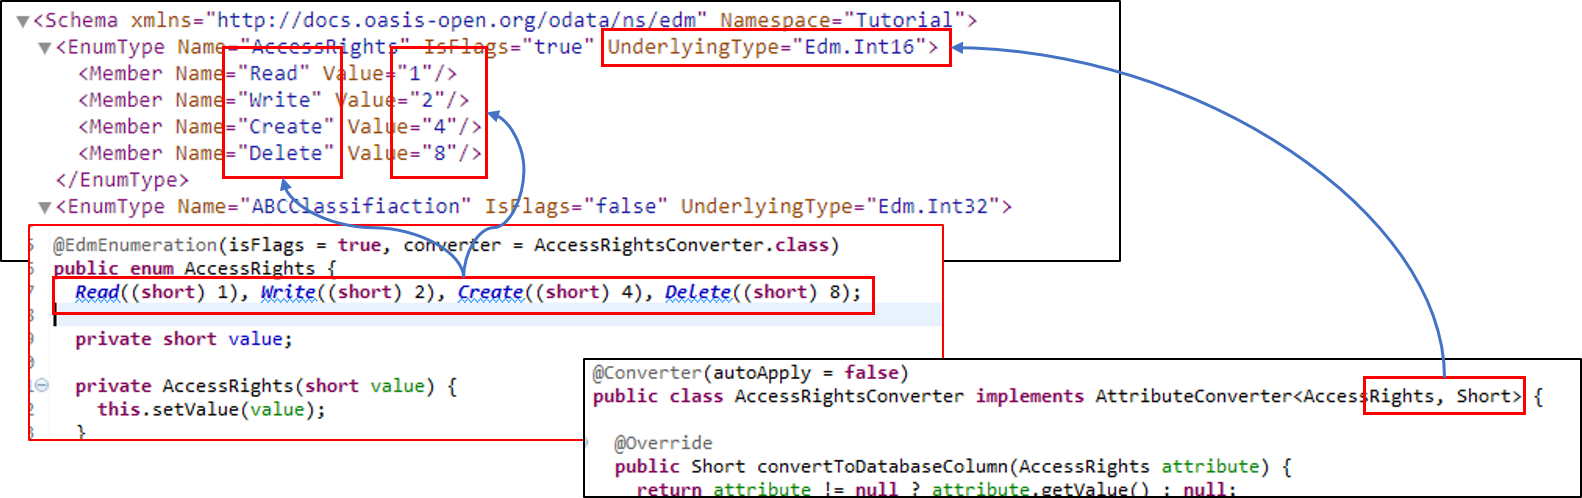
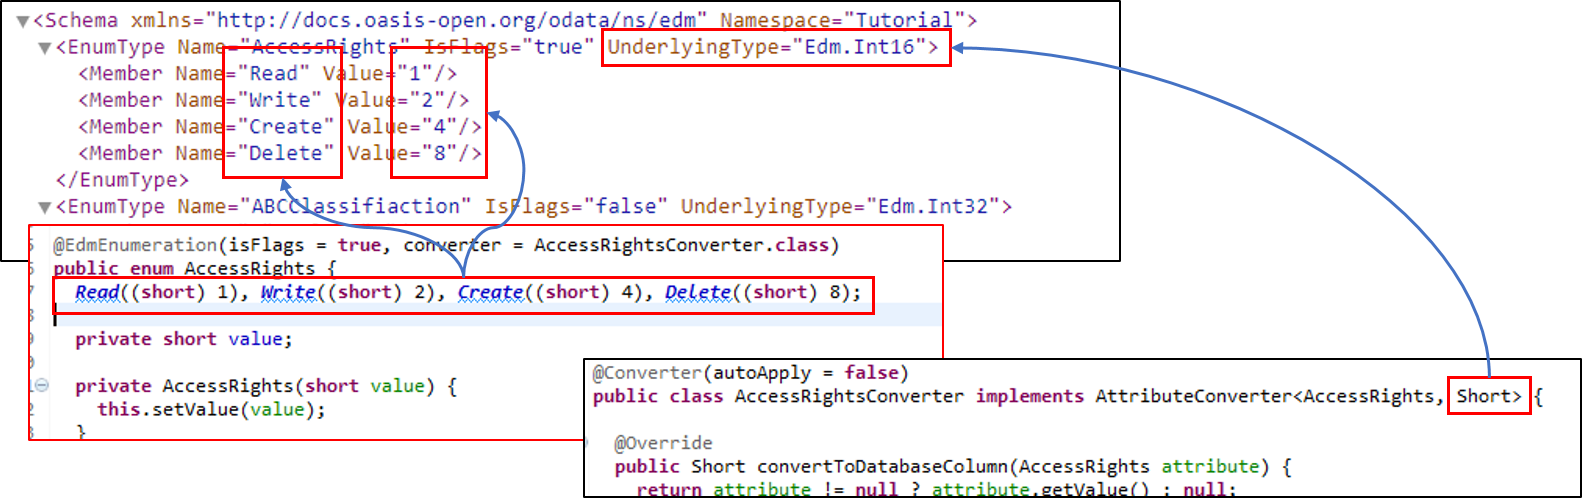
Update tutorial for enumerations

diff --git a/jpa-tutorial/Tutorials/Metadata/1-12-EnumerationTypes.md b/jpa-tutorial/Tutorials/Metadata/1-12-EnumerationTypes.md
@@ -2,11 +2,11 @@
 
 Since version 3 OData allows the specification of enumeration types. Together with Java enumerations it allows on the one hand to provide a client more details about the allowed values of a property and on the other hand to increase type safety in the code.
 
-OData distinguish between two kinds of enumerations, the flags and the non flags. We want have a look at both and see how Java enumerations are used to create OData enumerations.
+OData distinguish between two kinds of enumerations, the once members represent flags and the once the members are not flags. We want have a look at both and see how Java enumerations are used to create OData enumerations.
 
 ## Simple Enumerations
 
-As an example we assume that the Companies shall be classified using an ABC-Classification. For this a enumeration with the corresponding value shall be introduced:
+We want to assume that our Companies shall be classified using an ABC-Classification. For this an enumeration with the corresponding value shall be introduced:
 
 ```Java
 package tutorial.model;
@@ -24,12 +24,13 @@ This enumeration is tagged with a `@EdmEnumeration` so it will be converted into
 handler.getJPAODataContext().setTypePackage("tutorial.operations", "tutorial.model");
 ...
 ```
-With that we can already have a look at the metadata document, http://localhost:8080/Tutorial/Tutorial.svc/$metadata, with the following mapping:
+With that we can already have a look at the metadata document, http://localhost:8080/Tutorial/Tutorial.svc/$metadata, which bases on the following mapping:
+
 ![Mapping of ABCClassifiaction](Metadata/MappingSimpleEnum.png)
 
-As you can see all not given values are filled with default value, which are _false_ for _isFlag_, and _Edm.Int32_, so _Integer_, as _UnderlingType_. The numbering of the members determined via the _ordinal()_ method of the enumeration.
+As you can see all not given values are filled with default value, which are _false_ for _isFlags_, and _Edm.Int32_, so _Integer_, as _UnderlingType_. The numbering of the members determined via the _ordinal()_ method of the enumeration.
 
-Next we want to extend the company class with a property for the _ABC Class_. So we need to add a corresponding attribute to the Company. Even so OData handles enumeration always as numeric values, the _ABC Class_ shall be stored as a String, which is signaled via JPA annotation` @Enumerated(value = EnumType.STRING)`:
+Next we want to extend the company class with a property for the _ABC Class_. So we need to add a corresponding attribute to Company. Even so OData handles enumeration always as numeric values, the _ABC Class_ shall be stored as a String, which is signaled via JPA annotation` @Enumerated(value = EnumType.STRING)`. Please not that in case the property is used in an _orderby_ clause a client expect an order of a number, but would get a order of strings:
 
 ```Java
 package tutorial.model;
@@ -51,10 +52,11 @@ public class Company extends BusinessPartner {
 private ABCClassifiaction abcClass;
 ```
 If we have a look at the metadata again, we will find the following:
-![Mapping of ABCClassifiaction](Metadata/MappingSimpleEnumCompany.png)
-## Flags-Enabled Enumeration
 
-Here we take over the example given in [Schema Definition Language Documentation](http://docs.oasis-open.org/odata/odata/v4.0/errata03/os/complete/part3-csdl/odata-v4.0-errata03-os-part3-csdl-complete.html#_Toc453752565). Our use-case is that we want to be able to get insights into the access rights of a Person. The rights should be  _Read_, _Write_, _Create_ or _Delete_. A person may have multiple right at the same time. Do achieve this we assign a short values to each constant:
+![Mapping of ABCClassifiaction](Metadata/MappingSimpleEnumCompany.png)
+## Flag Based Enumeration
+
+Here we take over the example given in [Schema Definition Language Documentation](http://docs.oasis-open.org/odata/odata/v4.0/errata03/os/complete/part3-csdl/odata-v4.0-errata03-os-part3-csdl-complete.html#_Toc453752565). Our use-case is that we want to be able to get insights into the access rights of a Person. The rights should be  _Read_, _Write_, _Create_ or _Delete_. A person may have multiple right at the same time thats why we need members, which are flags. The flags shall be encoded as short values:
 
 ```Java
 package tutorial.model;
@@ -80,37 +82,50 @@ public enum AccessRights {
   }
 }
 ```
-The EdmEnumeration annotation has been enriched, so the JPA processor knows that this enumeration is a flag and that the value shall not be determined via `ordinal()` but via a converter, which we can later use, when we add a column to the Person. A simple converter can look as follows:
+The EdmEnumeration annotation has been enriched, so the JPA processor knows that the members are flags and that the value shall not be determined via `ordinal()` but via a converter, which we can later use, when we add a column to the Person. The converter converts from respectively into an array of enumeration instances. This is neccesary, as here more than one member may be selected at a time. A simple converter can look as follows:
 ```Java
 package tutorial.model;
 
-import java.util.Arrays;
+import java.util.ArrayList;
+import java.util.List;
 
 import javax.persistence.AttributeConverter;
 import javax.persistence.Converter;
 
 @Converter(autoApply = false)
-public class AccessRightsConverter implements AttributeConverter<AccessRights, Short> {
+public class AccessRightsConverter implements AttributeConverter<AccessRights[], Short> {
 
   @Override
-  public Short convertToDatabaseColumn(AccessRights attribute) {
-    return attribute != null ? attribute.getValue() : null;
+  public Short convertToDatabaseColumn(AccessRights[] attributes) {
+    if (attributes == null)
+      return null;
+    short value = 0;
+    for (AccessRights attribute : attributes)
+      if (attribute != null)
+        value += attribute.getValue();
+    return value;
   }
 
   @Override
-  public AccessRights convertToEntityAttribute(Short dbData) {
-    if (dbData != null) {
-      for (AccessRights e : Arrays.asList(AccessRights.values())) {
-        if (e.getValue() == dbData)
-          return e;
-      }
-    }
-    return null;
+  public AccessRights[] convertToEntityAttribute(Short dbData) {
+    if (dbData == null)
+      return null;
+    List<AccessRights> members = new ArrayList<AccessRights>(4);
+    if ((dbData & AccessRights.Read.getValue()) > 0)
+      members.add(AccessRights.Read);
+    if ((dbData & AccessRights.Create.getValue()) > 0)
+      members.add(AccessRights.Create);
+    if ((dbData & AccessRights.Write.getValue()) > 0)
+      members.add(AccessRights.Write);
+    if ((dbData & AccessRights.Delete.getValue()) > 0)
+      members.add(AccessRights.Delete);
+    return members.toArray(new AccessRights[] {});
   }
 
 }
 ```
-Again we can have a look at the metadata document:
+Again we can have a look at the metadata document and find the following mapping:
+
 ![Mapping of AccessRights](Metadata/MappingFlagsEnum.png)
 
 Now, as the last step, let's create the access rights column:
@@ -131,6 +146,6 @@ public class Person extends BusinessPartner {
 ...
 @Convert(converter = AccessRightsConverter.class)
 @Column(name = "\"AccessRights\"")
-private AccessRights accessRights;
+private AccessRights[] accessRights;
 ...
 ```

diff --git a/jpa-tutorial/Tutorials/Metadata/1-0-Overview.md b/jpa-tutorial/Tutorials/Metadata/1-0-Overview.md
@@ -1,14 +1,15 @@
 # 1.0: Overview
 The first series of tutorial shall introduce into the options currently provided to create OData metadata from JPA metadata:
 
-[Tutorial 1.1: Create A Simple Entity](1-1-ASimpleEntity.md)  
-[Tutorial 1.2: Use Navigation Properties](1-2-UseNavigationProperties.md)  
-[Tutorial 1.3: Text Associations](1-3-TextAssociations.md)    
-[Tutorial 1.4: Subtypes](1-4-Subtypes.md)  
-[Tutorial 1.5: Use Complex Types](1-5-UsingComplexTypes.md)  
-[Tutorial 1.6: Navigation Properties And Complex Types](1-6-NavigationAndComplexTypes.md)  
-[Tutorial 1.7: Suppressing Elements](1-7-SuppressingElements.md)  
-[Tutorial 1.8: Functions](1-8-Functions.md)  
-[Tutorial 1.9: Changing Generated Metadata](1-9-ChangingGeneratedMetadata.md)  
-[Tutorial 1.10: JPA Converter](1-10-JPAConverter.md)    
+[Tutorial 1.1: Create A Simple Entity](1-1-ASimpleEntity.md)
+[Tutorial 1.2: Use Navigation Properties](1-2-UseNavigationProperties.md)
+[Tutorial 1.3: Text Associations](1-3-TextAssociations.md)
+[Tutorial 1.4: Subtypes](1-4-Subtypes.md)
+[Tutorial 1.5: Use Complex Types](1-5-UsingComplexTypes.md)
+[Tutorial 1.6: Navigation Properties And Complex Types](1-6-NavigationAndComplexTypes.md)
+[Tutorial 1.7: Suppressing Elements](1-7-SuppressingElements.md)
+[Tutorial 1.8: Functions](1-8-Functions.md)
+[Tutorial 1.9: Changing Generated Metadata](1-9-ChangingGeneratedMetadata.md)
+[Tutorial 1.10: JPA Converter](1-10-JPAConverter.md)
 [Tutorial 1.11: Annotations](1-11-Annotations.md)
+[Tutorial 1.12: Enumerations](1-12-EnumerationTypes.md)

diff --git a/jpa-tutorial/Tutorials/Metadata/1-9-ChangingGeneratedMetadata.md b/jpa-tutorial/Tutorials/Metadata/1-9-ChangingGeneratedMetadata.md
@@ -1,0 +1,1 @@
+# 1.9 Changing Generated Metadata
